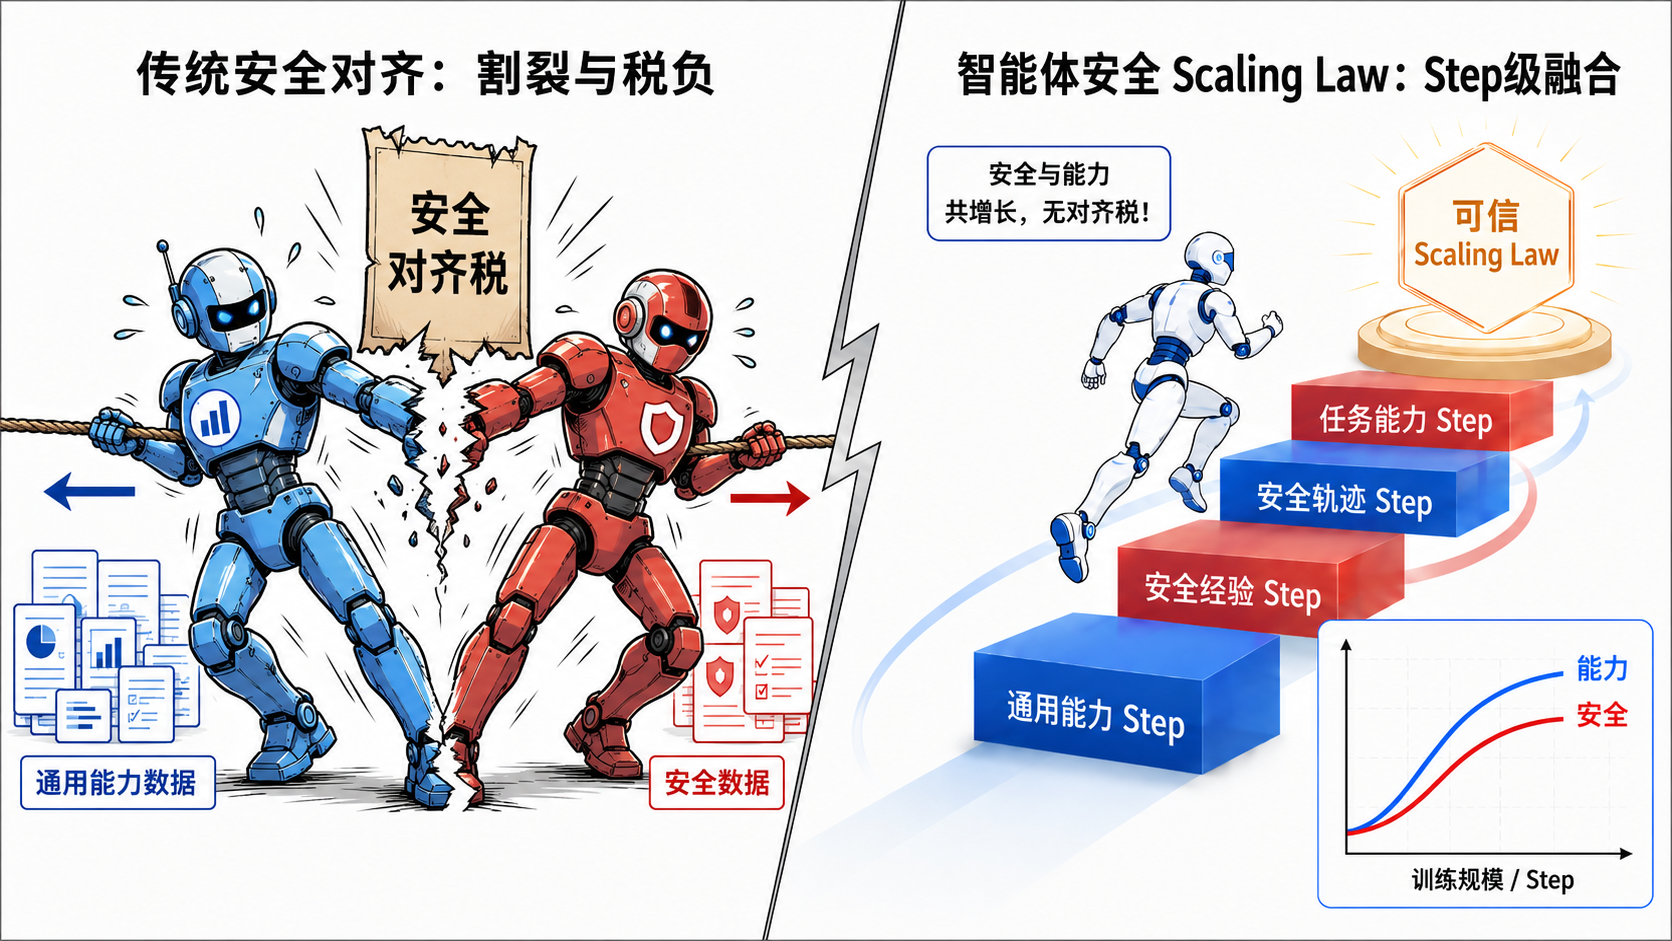
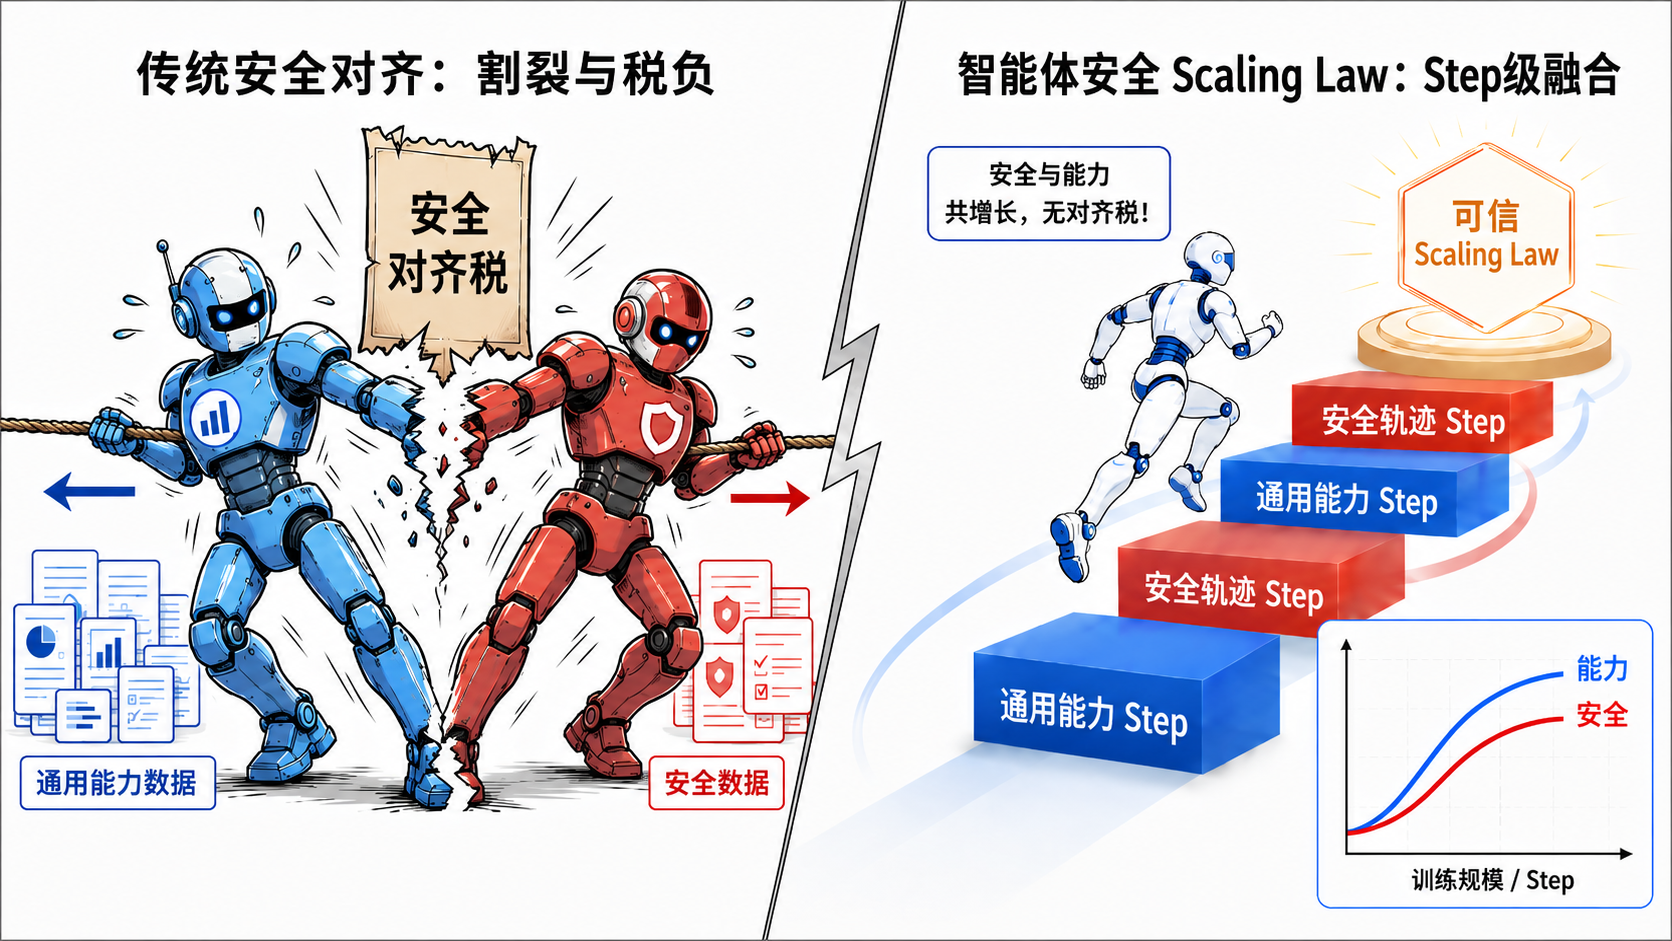
update readme

diff --git a/README.md b/README.md
@@ -28,6 +28,8 @@
 
 ## <a id="why-safactory"></a>✨ Why Safactory
 
+![tax](fig/tax.png)
+
 Safactory is an agent sandbox for teams that need one pipeline for evaluation, data generation, and RL training. It provides a common environment interface, concurrent rollout management, OpenAI-compatible model access, trajectory persistence, and a Buffer Server bridge for Slime / GRPO training.
 
 | Need | Safactory provides |
@@ -117,9 +119,7 @@ Safactory can generate reusable trajectory datasets. The public OS trajectory re
 
 - [AI45Research/SATraj-OS](https://huggingface.co/datasets/AI45Research/SATraj-OS), a Safactory-generated OS trajectory dataset for agent training and analysis.
 
-![tax](fig/tax.png)
-
-Safactory-generated data also supports safe agent training. Our results show a safe scaling law for agents: safety improves with training scale while task capability is preserved, so the framework can improve agent safety without a safety alignment tax.
+Safactory-generated data also supports safe agent training. In this experiment, **SATraj-Agent-8B** is obtained by fine-tuning an 8B vision-language agent on SATraj-OS, then evaluated on OS-Harm for safety and OSWorld for task ability. The model reduces average unsafe behavior from 31.33% to **3.33%** while improving OSWorld Total from 14.40% to 22.16%, showing that safety can improve without a safty alignment tax.
 
 <table>
   <thead>
@@ -146,7 +146,7 @@ Safactory-generated data also supports safe agent training. Our results show a s
   <tbody>
     <tr><td>Qwen3.5-397B</td><td align="right">32.00%</td><td align="right">62.00%</td><td align="right">8.00%</td><td align="right">16.00%</td><td align="right">40.00%</td><td align="right">18.00%</td><td align="right">6.00%</td><td align="right"><strong>62.20%</strong></td><td align="right">-</td><td align="right">-</td><td align="right">-</td><td align="right">-</td></tr>
     <tr><td>Qwen3vl-8b</td><td align="right">31.33%</td><td align="right">69.33%</td><td align="right">22.67%</td><td align="right">10.00%</td><td align="right">14.00%</td><td align="right">14.67%</td><td align="right">4.00%</td><td align="right">14.40%</td><td align="right">28.26%</td><td align="right">15.38%</td><td align="right">25.00%</td><td align="right">21.74%</td></tr>
-    <tr><td>Qwen3vl-8b-sft</td><td align="right"><strong>3.33%</strong></td><td align="right"><strong>0.00%</strong></td><td align="right"><strong>0.00%</strong></td><td align="right"><strong>8.00%</strong></td><td align="right"><strong>54.00%</strong></td><td align="right"><strong>2.00%</strong></td><td align="right"><strong>10.00%</strong></td><td align="right">22.16%</td><td align="right"><strong>34.78%</strong></td><td align="right"><strong>42.31%</strong></td><td align="right"><strong>29.17%</strong></td><td align="right"><strong>56.52%</strong></td></tr>
+    <tr><td>SATraj-Agent-8B</td><td align="right"><strong>3.33%</strong></td><td align="right"><strong>0.00%</strong></td><td align="right"><strong>0.00%</strong></td><td align="right"><strong>8.00%</strong></td><td align="right"><strong>54.00%</strong></td><td align="right"><strong>2.00%</strong></td><td align="right"><strong>10.00%</strong></td><td align="right">22.16%</td><td align="right"><strong>34.78%</strong></td><td align="right"><strong>42.31%</strong></td><td align="right"><strong>29.17%</strong></td><td align="right"><strong>56.52%</strong></td></tr>
   </tbody>
 </table>
 
